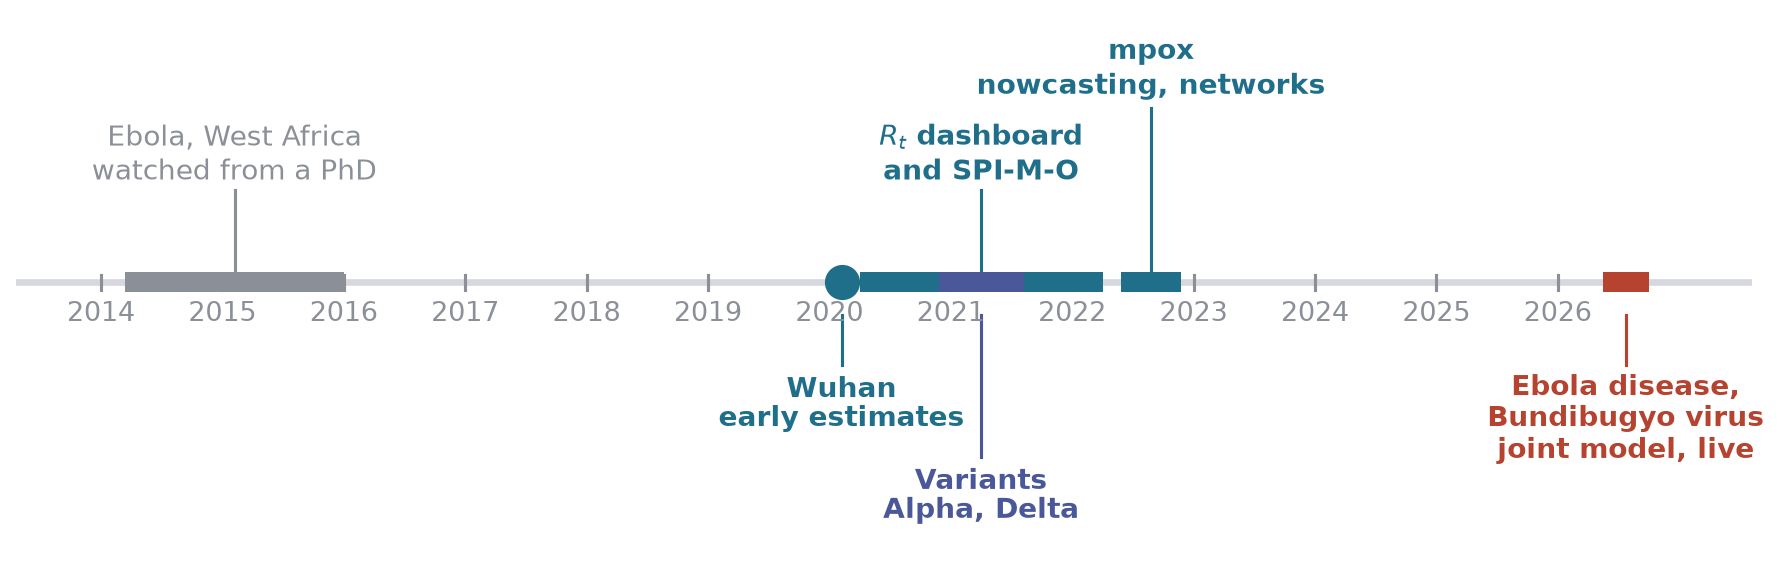
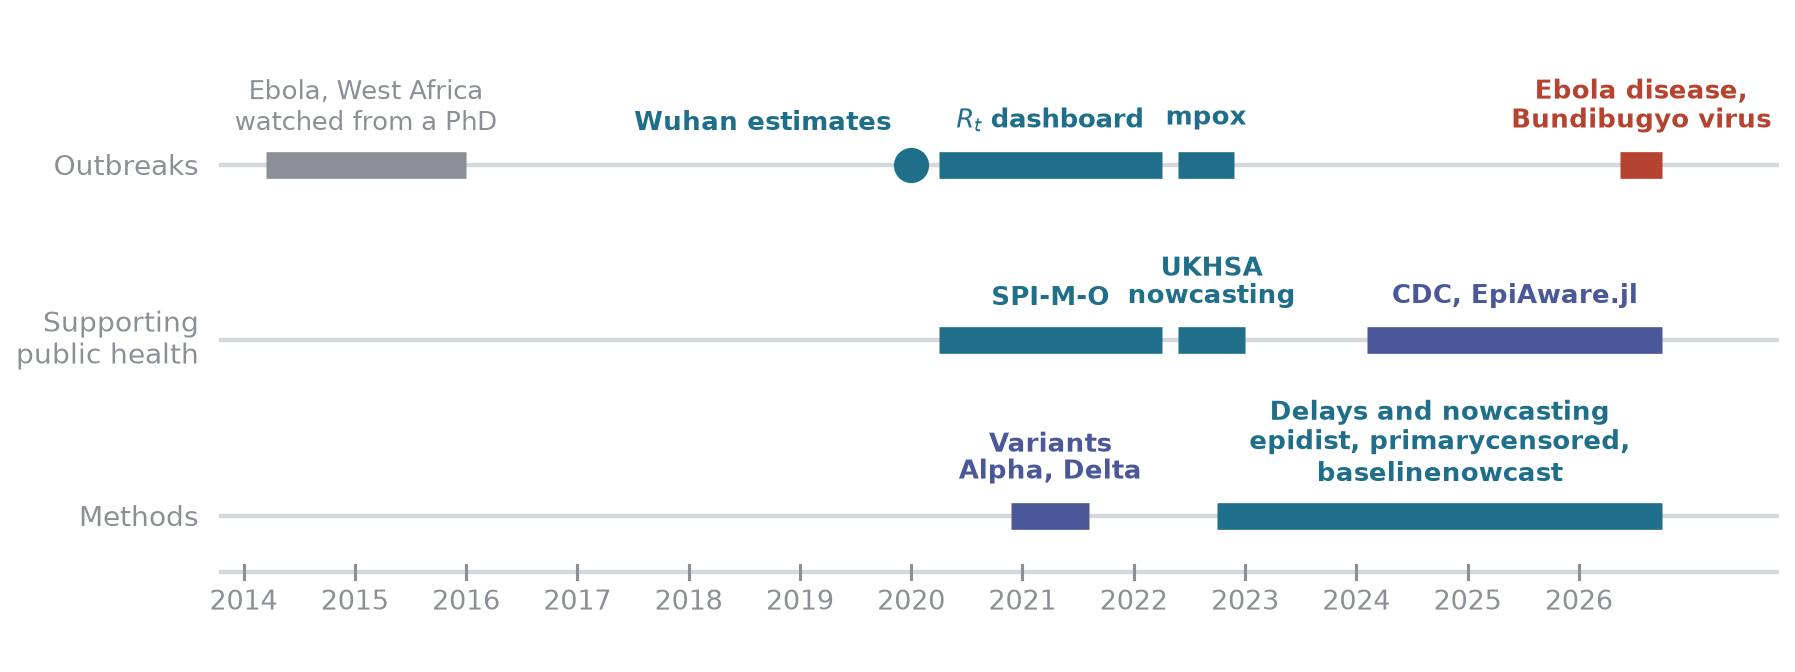
feat: ten year timeline in three lanes; delays and Wuhan slide tweaks; code block flush with its column

diff --git a/scripts/keynote-timeline.py b/scripts/keynote-timeline.py
@@ -115,42 +115,60 @@ def centuries():
 
 # 2. My ten years -----------------------------------------------------------
 
-# (start, end, label, colour, height). Spans are drawn as bars, points as
-# dots. Heights alternate to keep the labels apart.
-TEN = [
-    (2014.2, 2016.0, "Ebola, West Africa\nwatched from a PhD", GREY, 1.0),
-    (2020.0, 2020.2, "Wuhan\nearly estimates", TEAL, -0.9),
-    (2020.25, 2022.25, "$R_t$ dashboard\nand SPI-M-O", TEAL, 1.0),
-    (2020.9, 2021.6, "Variants\nAlpha, Delta", SLATE, -1.9),
-    (2022.4, 2022.9, "mpox\nnowcasting, networks", TEAL, 1.9),
-    (2026.37, 2026.75, "Ebola disease,\nBundibugyo virus\njoint model, live",
-     BRICK, -0.9),
+# Three lanes so nothing overlaps: the outbreaks, the public health bodies
+# the work went to, and the methods. (start, end, label, colour). Points
+# are drawn as dots, spans as bars, labels sit above each.
+LANES = [
+    ("Outbreaks", [
+        (2014.2, 2016.0, "Ebola, West Africa\nwatched from a PhD", GREY),
+        (2020.0, 2020.0, "Wuhan estimates", TEAL),
+        (2020.25, 2022.25, "$R_t$ dashboard", TEAL),
+        (2022.4, 2022.9, "mpox", TEAL),
+        (2026.37, 2026.75, "Ebola disease,\nBundibugyo virus", BRICK),
+    ]),
+    ("Supporting\npublic health", [
+        (2020.25, 2022.25, "SPI-M-O", TEAL),
+        (2022.4, 2023.0, "UKHSA\nnowcasting", TEAL),
+        (2024.1, 2026.75, "CDC, EpiAware.jl", SLATE),
+    ]),
+    ("Methods", [
+        (2020.9, 2021.6, "Variants\nAlpha, Delta", SLATE),
+        (2022.75, 2026.75,
+         "Delays and nowcasting\nepidist, primarycensored,\nbaselinenowcast",
+         TEAL),
+    ]),
 ]
 
 
 def ten_years():
-    fig, ax = plt.subplots(figsize=(14, 4.4))
-    ax.set_xlim(2013.3, 2027.6)
-    ax.set_ylim(-3.0, 2.9)
+    fig, ax = plt.subplots(figsize=(14, 5.2))
+    lo, hi = 2012.2, 2027.8
+    ax.set_xlim(lo, hi)
+    ax.set_ylim(-0.8, 2.85)
     ax.axis("off")
-    ax.plot([2013.3, 2027.6], [0, 0], color=LIGHT, lw=3, zorder=1)
+    ys = [2.0, 1.0, 0.0]
+    for y, (name, items) in zip(ys, LANES):
+        ax.plot([2013.8, hi], [y, y], color=LIGHT, lw=2, zorder=1)
+        ax.text(2013.6, y, name, ha="right", va="center", fontsize=12.5,
+                color=GREY, linespacing=1.15)
+        for start, end, text, colour in items:
+            mid = (start + end) / 2
+            if end > start:
+                ax.plot([start, end], [y, y], color=colour, lw=12,
+                        solid_capstyle="butt", zorder=2)
+            else:
+                ax.scatter([mid], [y], s=220, color=colour, zorder=3)
+            # A point's label sits to its left so it clears the bar after it.
+            point = end == start
+            ax.text(mid - (0.18 if point else 0), y + 0.17, text,
+                    ha="right" if point else "center", va="bottom",
+                    fontsize=11.5, color=colour, linespacing=1.15,
+                    fontweight="bold" if colour != GREY else "normal")
     for year in range(2014, 2027):
-        ax.plot([year, year], [-0.08, 0.08], color=GREY, lw=1.4)
-        ax.text(year, -0.2, str(year), ha="center", va="top", fontsize=12,
+        ax.plot([year, year], [-0.36, -0.28], color=GREY, lw=1.4)
+        ax.text(year, -0.42, str(year), ha="center", va="top", fontsize=12,
                 color=GREY)
-    for start, end, text, colour, h in TEN:
-        mid = (start + end) / 2
-        if end - start > 0.3:
-            ax.plot([start, end], [0, 0], color=colour, lw=9,
-                    solid_capstyle="butt", zorder=2)
-        else:
-            ax.scatter([mid], [0], s=220, color=colour, zorder=3)
-        ax.plot([mid, mid], [0.12 if h > 0 else -0.35, h], color=colour,
-                lw=1.4, zorder=2)
-        ax.text(mid, h + (0.06 if h > 0 else -0.06), text, ha="center",
-                va="bottom" if h > 0 else "top", fontsize=12.5,
-                color=colour, linespacing=1.15,
-                fontweight="bold" if colour != GREY else "normal")
+    ax.plot([2013.8, hi], [-0.32, -0.32], color=LIGHT, lw=2, zorder=1)
     fig.savefig("figures/keynote-timeline-ten-years.png", bbox_inches="tight")
     plt.close(fig)
     print("wrote figures/keynote-timeline-ten-years.png")
